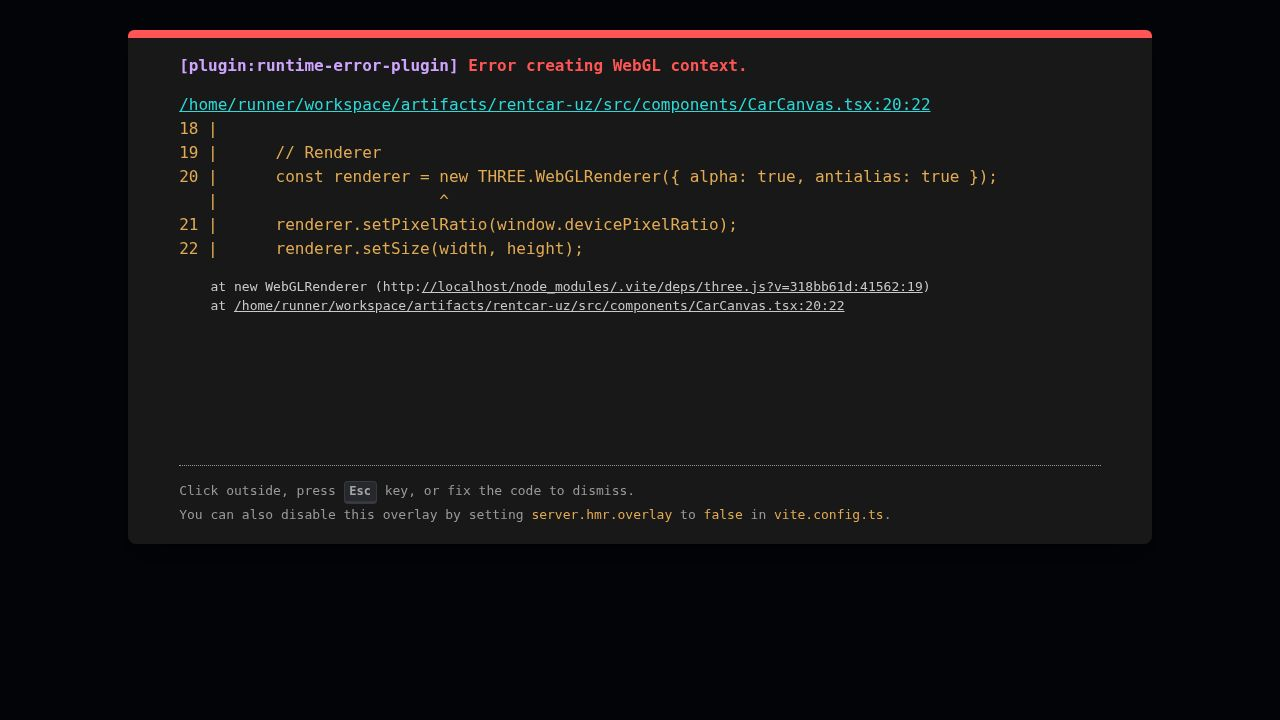
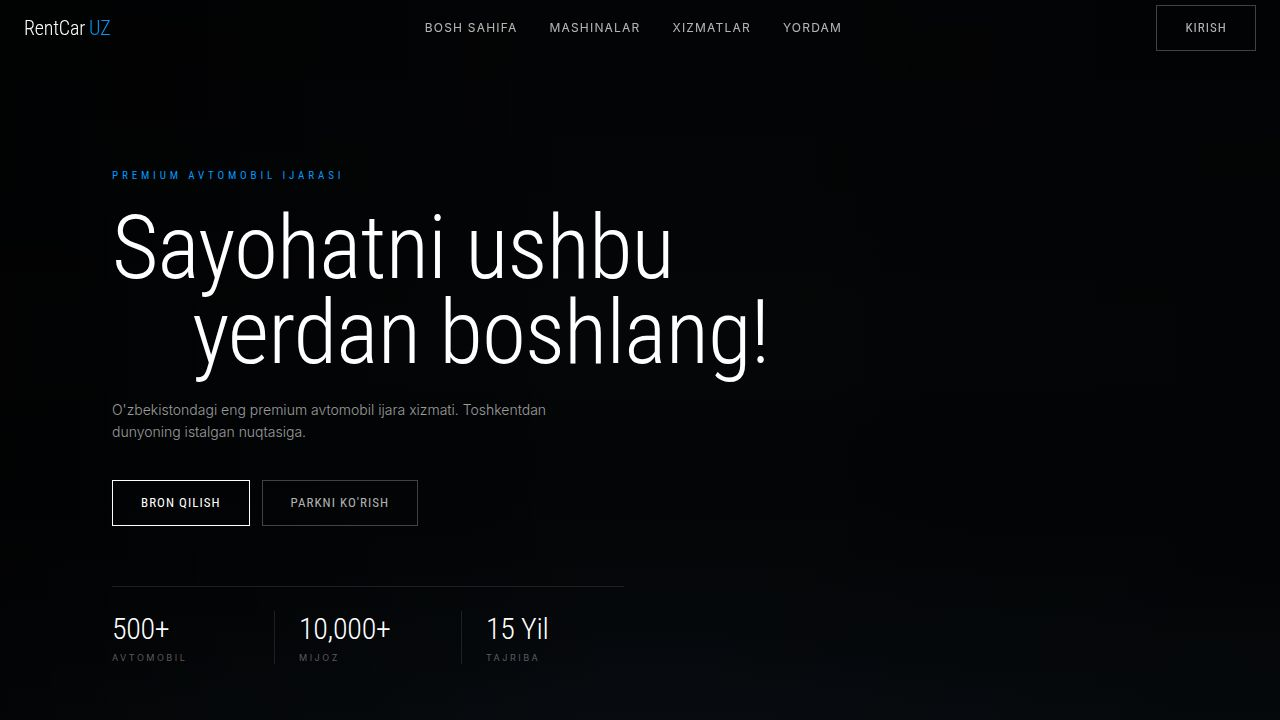
Integrate full-screen cinematic video background into the hero section
Replace the existing hero section content with a full-screen autoplaying video background, dark overlay, and repositioned text and buttons.

Replit-Commit-Author: Agent
Replit-Commit-Session-Id: 97797218-c6ce-4648-9b38-83ced9bd06ad
Replit-Commit-Checkpoint-Type: full_checkpoint
Replit-Commit-Event-Id: 4e994d9e-a8e0-4e68-9ae1-df4203ed743d
Replit-Commit-Screenshot-Url: https://storage.googleapis.com/screenshot-production-us-central1/864b79a9-9f39-45fd-9487-798d6b1ddcad/97797218-c6ce-4648-9b38-83ced9bd06ad/pCP4MAS
Replit-Helium-Checkpoint-Created: true

diff --git a/artifacts/rentcar-uz/src/components/Hero.tsx b/artifacts/rentcar-uz/src/components/Hero.tsx
@@ -1,79 +1,128 @@
-import { CarCanvas } from "./CarCanvas";
 import { motion } from "framer-motion";
+
+const FADE_UP = {
+  hidden: { opacity: 0, y: 28 },
+  visible: (delay = 0) => ({
+    opacity: 1,
+    y: 0,
+    transition: { duration: 0.9, ease: [0.22, 1, 0.36, 1], delay },
+  }),
+};
 
 export function Hero() {
   return (
-    <section className="relative min-h-[100dvh] bg-[#080C10] overflow-hidden pt-14">
-      <div className="absolute inset-0 grid lg:grid-cols-2 gap-0">
-        
-        {/* Left Content */}
-        <div className="relative z-10 flex flex-col justify-center px-[clamp(24px,6vw,96px)] py-20 lg:py-0">
-          <motion.div 
-            initial={{ opacity: 0, y: 20 }}
-            animate={{ opacity: 1, y: 0 }}
-            transition={{ duration: 0.8, ease: "easeOut" }}
-            className="flex flex-col gap-6"
-          >
-            <span className="text-[#0099FF] text-xs uppercase tracking-[0.3em] font-medium">
-              PREMIUM AVTOMOBIL IJARASI
-            </span>
-            
-            <h1 className="font-display font-light text-5xl md:text-6xl lg:text-7xl xl:text-8xl text-white leading-none">
-              Sayohatni ushbu<br/>
-              <span className="pl-4 md:pl-8 lg:pl-12">yerdan boshlang!</span>
-            </h1>
-            
-            <p className="font-sans font-light text-[#B8C4CC] max-w-sm text-sm leading-relaxed mt-4">
-              O'zbekistondagi eng premium avtomobil ijara xizmati. Toshkentdan dunyoning istalgan nuqtasiga.
-            </p>
-            
-            <div className="mt-8 flex flex-col sm:flex-row items-start sm:items-center gap-4">
-              <button 
-                className="btn-bmw-primary w-full sm:w-auto text-center"
-                data-testid="button-hero-book"
-              >
-                BRON QILISH
-              </button>
-              <button 
-                className="btn-bmw-ghost w-full sm:w-auto text-center"
-                data-testid="button-hero-fleet"
-              >
-                PARKNI KO'RISH
-              </button>
-            </div>
+    <section className="relative h-[100dvh] w-full overflow-hidden">
 
-            <div className="mt-12 pt-8 border-t border-white/10 flex items-center">
-              <div className="flex-1 flex flex-col gap-1 pr-6 border-r border-white/10">
-                <h4 className="font-display font-light text-3xl text-white">500+</h4>
-                <p className="font-sans text-[10px] uppercase tracking-[0.25em] text-white/40">AVTOMOBIL</p>
-              </div>
-              <div className="flex-1 flex flex-col gap-1 px-6 border-r border-white/10">
-                <h4 className="font-display font-light text-3xl text-white">10,000+</h4>
-                <p className="font-sans text-[10px] uppercase tracking-[0.25em] text-white/40">MIJOZ</p>
-              </div>
-              <div className="flex-1 flex flex-col gap-1 pl-6">
-                <h4 className="font-display font-light text-3xl text-white">15 YIL</h4>
-                <p className="font-sans text-[10px] uppercase tracking-[0.25em] text-white/40">TAJRIBA</p>
-              </div>
-            </div>
+      {/* ── Video background ── */}
+      <video
+        autoPlay
+        loop
+        muted
+        playsInline
+        className="absolute inset-0 w-full h-full object-cover"
+        data-testid="hero-video"
+      >
+        <source
+          src="https://assets.mixkit.co/videos/preview/mixkit-driving-a-modern-sports-car-at-high-speed-34710-large.mp4"
+          type="video/mp4"
+        />
+        <source
+          src="https://assets.mixkit.co/videos/preview/mixkit-sports-car-passing-by-in-blurred-light-trail-34695-large.mp4"
+          type="video/mp4"
+        />
+      </video>
+
+      {/* ── Dark overlay (top 40% → solid middle → bottom fade to page bg) ── */}
+      <div className="absolute inset-0 bg-gradient-to-b from-black/70 via-black/50 to-[#080C10]" />
+      {/* Extra lateral vignette for depth */}
+      <div className="absolute inset-0 bg-gradient-to-r from-black/60 via-transparent to-black/30" />
+
+      {/* ── Navbar height spacer ── */}
+      <div className="h-14" />
+
+      {/* ── Main content ── */}
+      <div className="relative z-10 h-[calc(100dvh-56px)] flex flex-col justify-between px-6 md:px-12 lg:px-20 xl:px-28 py-12">
+
+        {/* Top: headline + buttons */}
+        <div className="flex flex-col gap-5 max-w-3xl mt-8 lg:mt-16">
+
+          <motion.span
+            variants={FADE_UP}
+            initial="hidden"
+            animate="visible"
+            custom={0}
+            className="text-[#0099FF] text-[11px] uppercase tracking-[0.35em] font-medium"
+          >
+            Premium Avtomobil Ijarasi
+          </motion.span>
+
+          <motion.h1
+            variants={FADE_UP}
+            initial="hidden"
+            animate="visible"
+            custom={0.1}
+            className="font-display font-light leading-[0.95] text-white"
+            style={{ fontSize: "clamp(2.8rem, 7vw, 6rem)" }}
+          >
+            Sayohatni ushbu<br />
+            <span className="pl-6 md:pl-12 lg:pl-20">yerdan boshlang!</span>
+          </motion.h1>
+
+          <motion.p
+            variants={FADE_UP}
+            initial="hidden"
+            animate="visible"
+            custom={0.22}
+            className="font-sans font-light text-white/60 text-sm leading-relaxed max-w-md mt-1"
+          >
+            O'zbekistondagi eng premium avtomobil ijara xizmati.
+            Toshkentdan dunyoning istalgan nuqtasiga.
+          </motion.p>
+
+          <motion.div
+            variants={FADE_UP}
+            initial="hidden"
+            animate="visible"
+            custom={0.34}
+            className="flex flex-col sm:flex-row gap-3 mt-4"
+          >
+            <button
+              className="btn-bmw-primary"
+              data-testid="button-hero-book"
+            >
+              BRON QILISH
+            </button>
+            <button
+              className="btn-bmw-ghost"
+              data-testid="button-hero-fleet"
+            >
+              PARKNI KO'RISH
+            </button>
           </motion.div>
         </div>
 
-        {/* Right Canvas */}
-        <div className="relative h-[60vh] lg:h-full bg-gradient-to-tr from-[#0E1B2A] to-[#080C10]">
-          {/* Subtle blue glow */}
-          <div className="absolute bottom-0 left-1/2 -translate-x-1/2 w-80 h-20 bg-[radial-gradient(circle,rgba(0,153,255,0.1)_0%,transparent_70%)] blur-3xl pointer-events-none" />
-          
-          <motion.div 
-            initial={{ opacity: 0 }}
-            animate={{ opacity: 1 }}
-            transition={{ duration: 1.5, delay: 0.3 }}
-            className="w-full h-full relative"
-          >
-            <CarCanvas />
-          </motion.div>
-        </div>
-        
+        {/* Bottom: stats row — pinned above the page transition */}
+        <motion.div
+          variants={FADE_UP}
+          initial="hidden"
+          animate="visible"
+          custom={0.5}
+          className="flex items-end gap-0 border-t border-white/10 pt-6 pb-2 w-full max-w-lg"
+        >
+          <div className="flex-1 flex flex-col gap-1 pr-6 border-r border-white/10">
+            <span className="font-display font-light text-2xl md:text-3xl text-white">500+</span>
+            <span className="font-sans text-[9px] uppercase tracking-[0.28em] text-white/35">Avtomobil</span>
+          </div>
+          <div className="flex-1 flex flex-col gap-1 px-6 border-r border-white/10">
+            <span className="font-display font-light text-2xl md:text-3xl text-white">10,000+</span>
+            <span className="font-sans text-[9px] uppercase tracking-[0.28em] text-white/35">Mijoz</span>
+          </div>
+          <div className="flex-1 flex flex-col gap-1 pl-6">
+            <span className="font-display font-light text-2xl md:text-3xl text-white">15 Yil</span>
+            <span className="font-sans text-[9px] uppercase tracking-[0.28em] text-white/35">Tajriba</span>
+          </div>
+        </motion.div>
+
       </div>
     </section>
   );